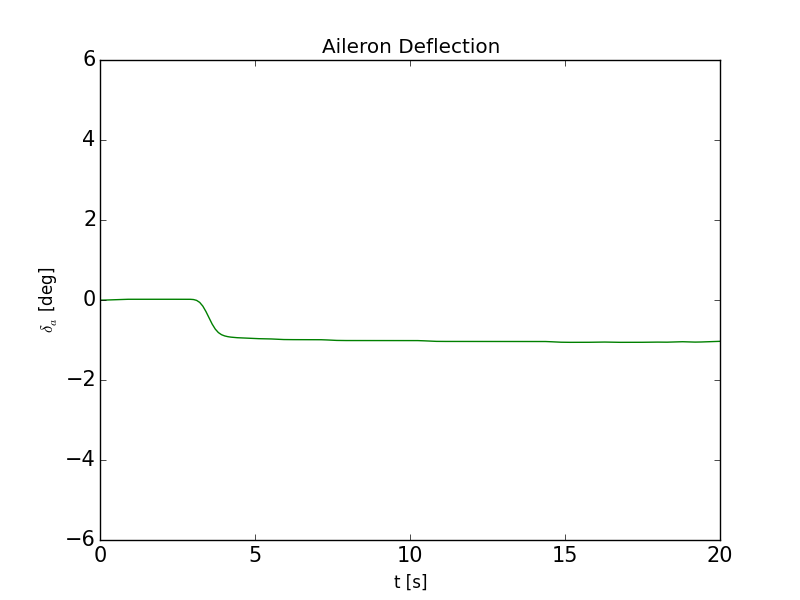
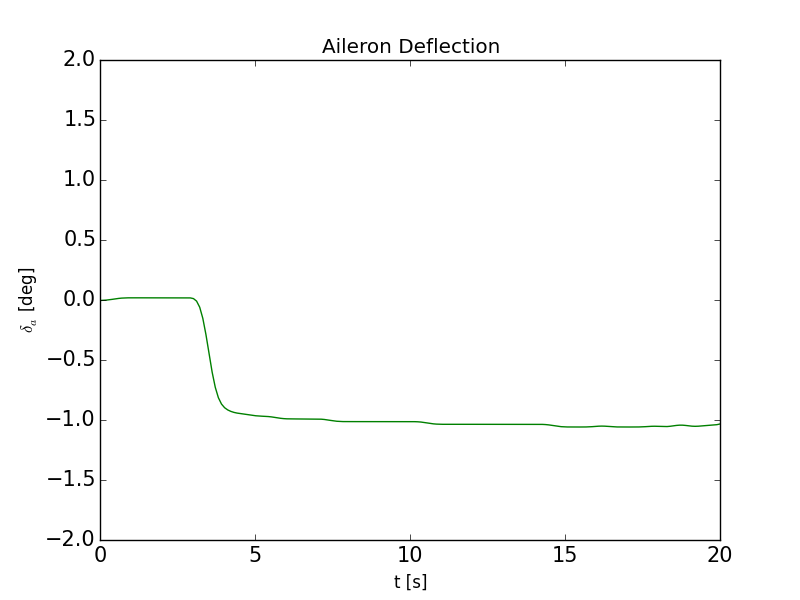
Beep Boop ik ben een robot

diff --git a/Plotter.py b/Plotter.py
@@ -51,7 +51,7 @@ def plot(name):
     plt.ylabel("p [deg/s]")
     plt.xlabel("t [s]")
     plt.plot(t1, name.RollRate, label="Experimental", color="green")
-    plt.legend(loc=3)
+    plt.legend(loc=2)
     plt.savefig((namem + "RollRate"))
     plt.show()
 
@@ -70,7 +70,7 @@ def plot(name):
     plt.show()   
     
     plt.figure(4)
-    plt.gca().set_ylim([-6,6])
+    plt.gca().set_ylim([-2,2])
 #    plt.gca().set_xlim([0,140])    
     plt.tick_params(axis="x", labelsize=15)
     plt.tick_params(axis="y", labelsize=15)
@@ -82,7 +82,7 @@ def plot(name):
 
     
     plt.figure(5)
-    plt.gca().set_ylim([-6,6])
+    plt.gca().set_ylim([-2,2])
 #    plt.gca().set_xlim([0,140])    
     plt.tick_params(axis="x", labelsize=15)
     plt.tick_params(axis="y", labelsize=15)
